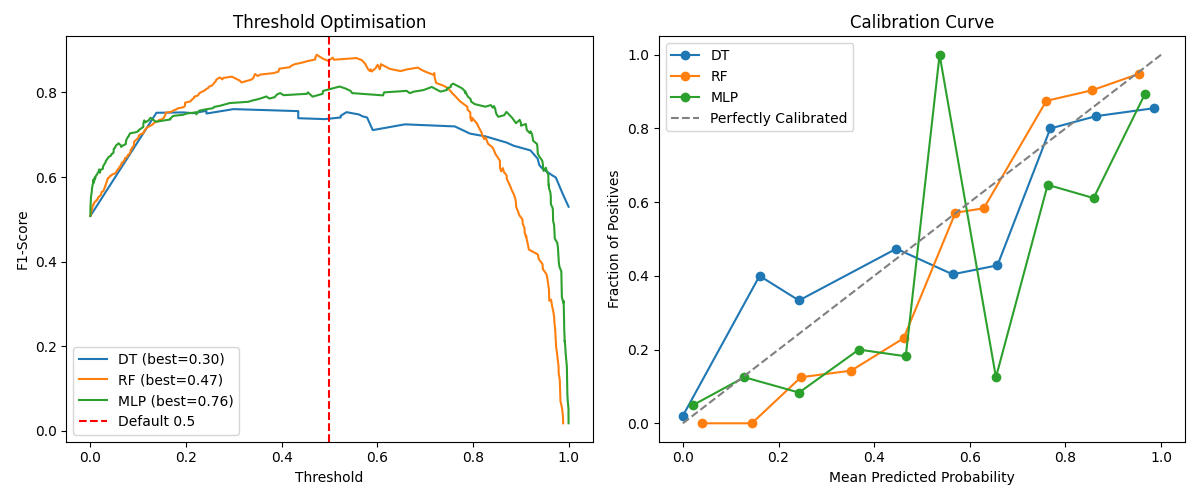
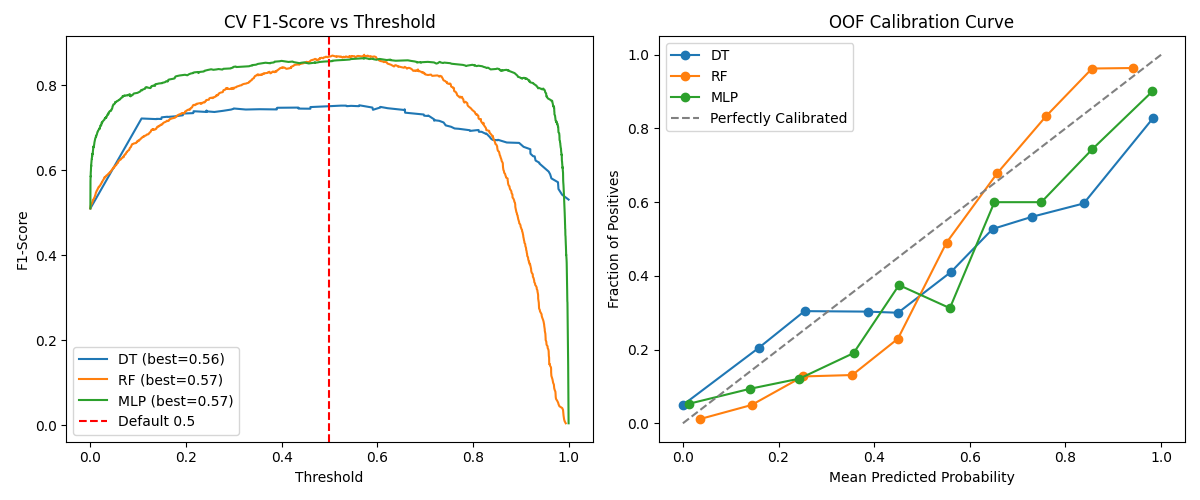
Threshold optimised using CV

diff --git a/src/tune_thresholds.py b/src/tune_thresholds.py
@@ -8,8 +8,12 @@ import matplotlib.pyplot as plt
 import numpy as np
 import pandas as pd
 import torch
+from sklearn.base import clone
 from sklearn.calibration import calibration_curve
 from sklearn.metrics import average_precision_score, precision_recall_curve
+from sklearn.model_selection import StratifiedKFold
+from torch import nn
+from torch.utils.data import DataLoader, TensorDataset
 
 from models import MLP
 
@@ -39,10 +43,144 @@ def find_optimal_threshold(
     logger.info(f"Best Threshold: {best_threshold:.4f}")
     logger.info(f"Best validation F1: {best_f1:.4f}")
 
-    return best_threshold, thresholds, f1_scores[:-1], best_f1, auprc
+    return {
+        "threshold": best_threshold,
+        "f1": best_f1,
+        "auprc": auprc,
+        "thresholds": thresholds,
+        "f1_scores": f1_scores[:-1],
+    }
 
-def load_mlp(x: pd.DataFrame) -> MLP:
-    """Load trained MLP model."""
+def get_sklearn_oof_probs(
+        model: object,
+        x: pd.DataFrame,
+        y: np.ndarray,
+        model_name: str,
+        n_splits: int = 5,
+    ) -> np.ndarray:
+    """Get out-of-fold predicted probabilities for sklearn model using Stratified K-Fold CV."""
+    skf = StratifiedKFold(
+        n_splits=n_splits,
+        shuffle=True,
+        random_state=42,
+    )
+
+    oof_probs = np.zeros(len(y))
+
+    for fold, (train_idx, val_idx) in enumerate(skf.split(x, y), start=1):
+        logger.info(f"{model_name} Fold {fold}/{n_splits}")
+
+        x_train, x_val = x.iloc[train_idx], x.iloc[val_idx]
+        y_train = y[train_idx]
+
+        fold_model = clone(model)
+        fold_model.fit(x_train, y_train)
+
+        oof_probs[val_idx] = fold_model.predict_proba(x_val)[:, 1]
+
+    return oof_probs
+
+def train_mlp_fold(  # noqa: PLR0913
+        x_train: pd.DataFrame,
+        y_train: np.ndarray,
+        input_size: int,
+        hidden_layers: list[int],
+        dropout: float,
+        lr: float,
+        weight_decay: float,
+        batch_size: int,
+        epochs: int,
+    ) -> MLP:
+    """Train MLP for one fold of Stratified K-Fold CV."""
+    model = MLP(
+        input_size=input_size,
+        hidden_layers=hidden_layers,
+        dropout=dropout,
+    )
+
+    x_tensor = torch.tensor(x_train.values, dtype=torch.float32)
+    y_tensor = torch.tensor(y_train, dtype=torch.float32).view(-1, 1)
+
+    dataset = TensorDataset(x_tensor, y_tensor)
+    loader = DataLoader(dataset, batch_size=batch_size, shuffle=True)
+
+    num_pos = np.sum(y_train == 1)
+    num_neg = np.sum(y_train == 0)
+
+    pos_weight = torch.tensor([num_neg / num_pos], dtype=torch.float32)
+    criterion = nn.BCEWithLogitsLoss(pos_weight=pos_weight)
+
+    optimiser = torch.optim.Adam(
+        model.parameters(),
+        lr=lr,
+        weight_decay=weight_decay,
+    )
+
+    model.train()
+
+    for _ in range(epochs):
+        for xb, yb in loader:
+            optimiser.zero_grad()
+
+            logits = model(xb)
+            loss = criterion(logits, yb)
+
+            loss.backward()
+            optimiser.step()
+
+    return model
+
+def get_mlp_oof_probs(  # noqa: PLR0913
+        x: pd.DataFrame,
+        y: np.ndarray,
+        hidden_layers: list[int],
+        dropout: float,
+        lr: float,
+        weight_decay: float,
+        batch_size: int,
+        epochs: int,
+        n_splits: int = 5,
+    ) -> np.ndarray:
+    """Get out-of-fold predicted probabilities for MLP using Stratified K-Fold CV."""
+    skf = StratifiedKFold(
+        n_splits=n_splits,
+        shuffle=True,
+        random_state=42,
+    )
+
+    oof_probs = np.zeros(len(y))
+
+    for fold, (train_idx, val_idx) in enumerate(skf.split(x, y), start=1):
+        logger.info(f"MLP Fold {fold}/{n_splits}")
+
+        x_fold_train, y_fold_train = x.iloc[train_idx], y[train_idx]
+        x_fold_val = x.iloc[val_idx]
+
+        model = train_mlp_fold(
+            x_train=x_fold_train,
+            y_train=y_fold_train,
+            input_size=x.shape[1],
+            hidden_layers=hidden_layers,
+            dropout=dropout,
+            lr=lr,
+            weight_decay=weight_decay,
+            batch_size=batch_size,
+            epochs=epochs,
+        )
+
+        model.eval()
+
+        with torch.no_grad():
+            logits = model(torch.tensor(x_fold_val.values, dtype=torch.float32))
+            probs = torch.sigmoid(logits).cpu().numpy().ravel()
+
+        oof_probs[val_idx] = probs
+
+    return oof_probs
+
+
+def load_mlp_hyperparameters() -> dict[str, object]:
+    """Load best MLP hyperparameters."""
     with (METRICS_DIR / "hyperparameters.json").open("r") as f:
         best_params = json.load(f)
 
@@ -52,21 +190,18 @@ def load_mlp(x: pd.DataFrame) -> MLP:
         for i in range(mlp_params["n_layers"])
     ]
 
-    model = MLP(
-        input_size=x.shape[1],
-        hidden_layers=hidden_layers,
-        dropout=mlp_params["dropout"],
-    )
-
-    model.load_state_dict(torch.load(MODELS_DIR / "mlp_model.pth", weights_only=True))
-    model.eval()
-
-    return model
+    return {
+        "hidden_layers": hidden_layers,
+        "dropout": mlp_params["dropout"],
+        "lr": mlp_params["lr"],
+        "weight_decay": mlp_params["weight_decay"],
+        "batch_size": mlp_params["batch_size"],
+    }
 
 if __name__ == "__main__":
     # Load Validation Set
-    x_val = pd.read_csv(DATA_DIR / "x_val.csv")
-    y_val = pd.read_csv(DATA_DIR / "y_val.csv").to_numpy().ravel()
+    x_train = pd.read_csv(DATA_DIR / "x_train.csv")
+    y_train = pd.read_csv(DATA_DIR / "y_train.csv").to_numpy().ravel()
 
 
     with (MODELS_DIR / "dt_model.pkl").open("rb") as f:
@@ -75,73 +210,75 @@ if __name__ == "__main__":
     with (MODELS_DIR / "rf_model.pkl").open("rb") as f:
         rf_model = pickle.load(f)
 
-    mlp_model = load_mlp(x_val)
+    mlp_params = load_mlp_hyperparameters()
 
-    dt_val_probs = dt_model.predict_proba(x_val)[:, 1]
-    rf_val_probs = rf_model.predict_proba(x_val)[:, 1]
-
-    with torch.no_grad():
-        logits = mlp_model(torch.tensor(x_val.values, dtype=torch.float32))
-        mlp_val_probs = torch.sigmoid(logits).cpu().numpy().ravel()
+    dt_oof_probs = get_sklearn_oof_probs(dt_model, x_train, y_train, model_name="Decision Tree")
+    rf_oof_probs = get_sklearn_oof_probs(rf_model, x_train, y_train, model_name="Random Forest")
+    mlp_oof_probs = get_mlp_oof_probs(
+        x=x_train,
+        y=y_train,
+        hidden_layers=mlp_params["hidden_layers"],
+        dropout=mlp_params["dropout"],
+        lr=mlp_params["lr"],
+        weight_decay=mlp_params["weight_decay"],
+        batch_size=mlp_params["batch_size"],
+        epochs=150,
+    )
 
     # 3. Find Optimal Thresholds
-    dt_thresh, dt_ts, dt_f1s, dt_best_f1, dt_auprc = find_optimal_threshold(
-        y_val,
-        dt_val_probs,
-        model_name="Decision Tree",
-    )
-    rf_thresh, rf_ts, rf_f1s, rf_best_f1, rf_auprc = find_optimal_threshold(
-        y_val,
-        rf_val_probs,
-        model_name="Random Forest",
-    )
-    mlp_thresh, mlp_ts, mlp_f1s, mlp_best_f1, mlp_auprc = find_optimal_threshold(
-        y_val,
-        mlp_val_probs,
-        model_name="Multi-Layer Perceptron",
-    )
+    dt_results = find_optimal_threshold(y_train, dt_oof_probs, model_name="Decision Tree")
+    rf_results = find_optimal_threshold(y_train, rf_oof_probs, model_name="Random Forest")
+    mlp_results = find_optimal_threshold(y_train, mlp_oof_probs, model_name="Multi-Layer Perceptron")
 
     # 4. Save Artifacts
     thresholds = {
-        "dt_threshold": dt_thresh,
-        "rf_threshold": rf_thresh,
-        "mlp_threshold": mlp_thresh,
-        "dt_validation_f1": dt_best_f1,
-        "rf_validation_f1": rf_best_f1,
-        "mlp_validation_f1": mlp_best_f1,
-        "dt_validation_auprc": dt_auprc,
-        "rf_validation_auprc": rf_auprc,
-        "mlp_validation_auprc": mlp_auprc,
-        "tuned_on": "validation",
+        "dt_threshold": dt_results["threshold"],
+        "rf_threshold": rf_results["threshold"],
+        "mlp_threshold": mlp_results["threshold"],
+
+        "dt_cv_f1": dt_results["f1"],
+        "rf_cv_f1": rf_results["f1"],
+        "mlp_cv_f1": mlp_results["f1"],
+
+        "dt_cv_auprc": dt_results["auprc"],
+        "rf_cv_auprc": rf_results["auprc"],
+        "mlp_cv_auprc": mlp_results["auprc"],
+
+        "tuned_on": "cv_oof_probs",
     }
 
     with (METRICS_DIR / "thresholds.json").open("w") as f:
         json.dump(thresholds, f, indent=2)
-    logger.info(f"\nOptimal thresholds saved to {METRICS_DIR / 'thresholds.json'}")
+    logger.info(f"\nCV thresholds saved to {METRICS_DIR / 'thresholds.json'}")
 
     # 5. Visualisation
     plt.figure(figsize=(12, 5))
 
     # Subplot 1: F1-Score vs Threshold
     plt.subplot(1, 2, 1)
-    plt.plot(dt_ts, dt_f1s, label=f"DT (best={dt_thresh:.2f})")
-    plt.plot(rf_ts, rf_f1s, label=f"RF (best={rf_thresh:.2f})")
-    plt.plot(mlp_ts, mlp_f1s, label=f"MLP (best={mlp_thresh:.2f})")
+    plt.plot(dt_results["thresholds"], dt_results["f1_scores"], label=f"DT (best={dt_results['threshold']:.2f})")
+    plt.plot(rf_results["thresholds"], rf_results["f1_scores"], label=f"RF (best={rf_results['threshold']:.2f})")
+    plt.plot(mlp_results["thresholds"], mlp_results["f1_scores"], label=f"MLP (best={mlp_results['threshold']:.2f})")
     plt.axvline(0.5, color="red", linestyle="--", label="Default 0.5")
     plt.xlabel("Threshold")
     plt.ylabel("F1-Score")
-    plt.title("Threshold Optimisation")
+    plt.title("CV F1-Score vs Threshold")
     plt.legend()
 
     # Subplot 2: Calibration Curve
     plt.subplot(1, 2, 2)
-    for name, probs in [("DT", dt_val_probs), ("RF", rf_val_probs), ("MLP", mlp_val_probs)]:
-        prob_true, prob_pred = calibration_curve(y_val, probs, n_bins=10)
+
+    for name, probs in [
+        ("DT", dt_oof_probs),
+        ("RF", rf_oof_probs),
+        ("MLP", mlp_oof_probs),
+    ]:
+        prob_true, prob_pred = calibration_curve(y_train, probs, n_bins=10)
         plt.plot(prob_pred, prob_true, marker="o", label=name)
     plt.plot([0, 1], [0, 1], linestyle="--", color="gray", label="Perfectly Calibrated")
     plt.xlabel("Mean Predicted Probability")
     plt.ylabel("Fraction of Positives")
-    plt.title("Calibration Curve")
+    plt.title("OOF Calibration Curve")
     plt.legend()
 
     plt.tight_layout()
